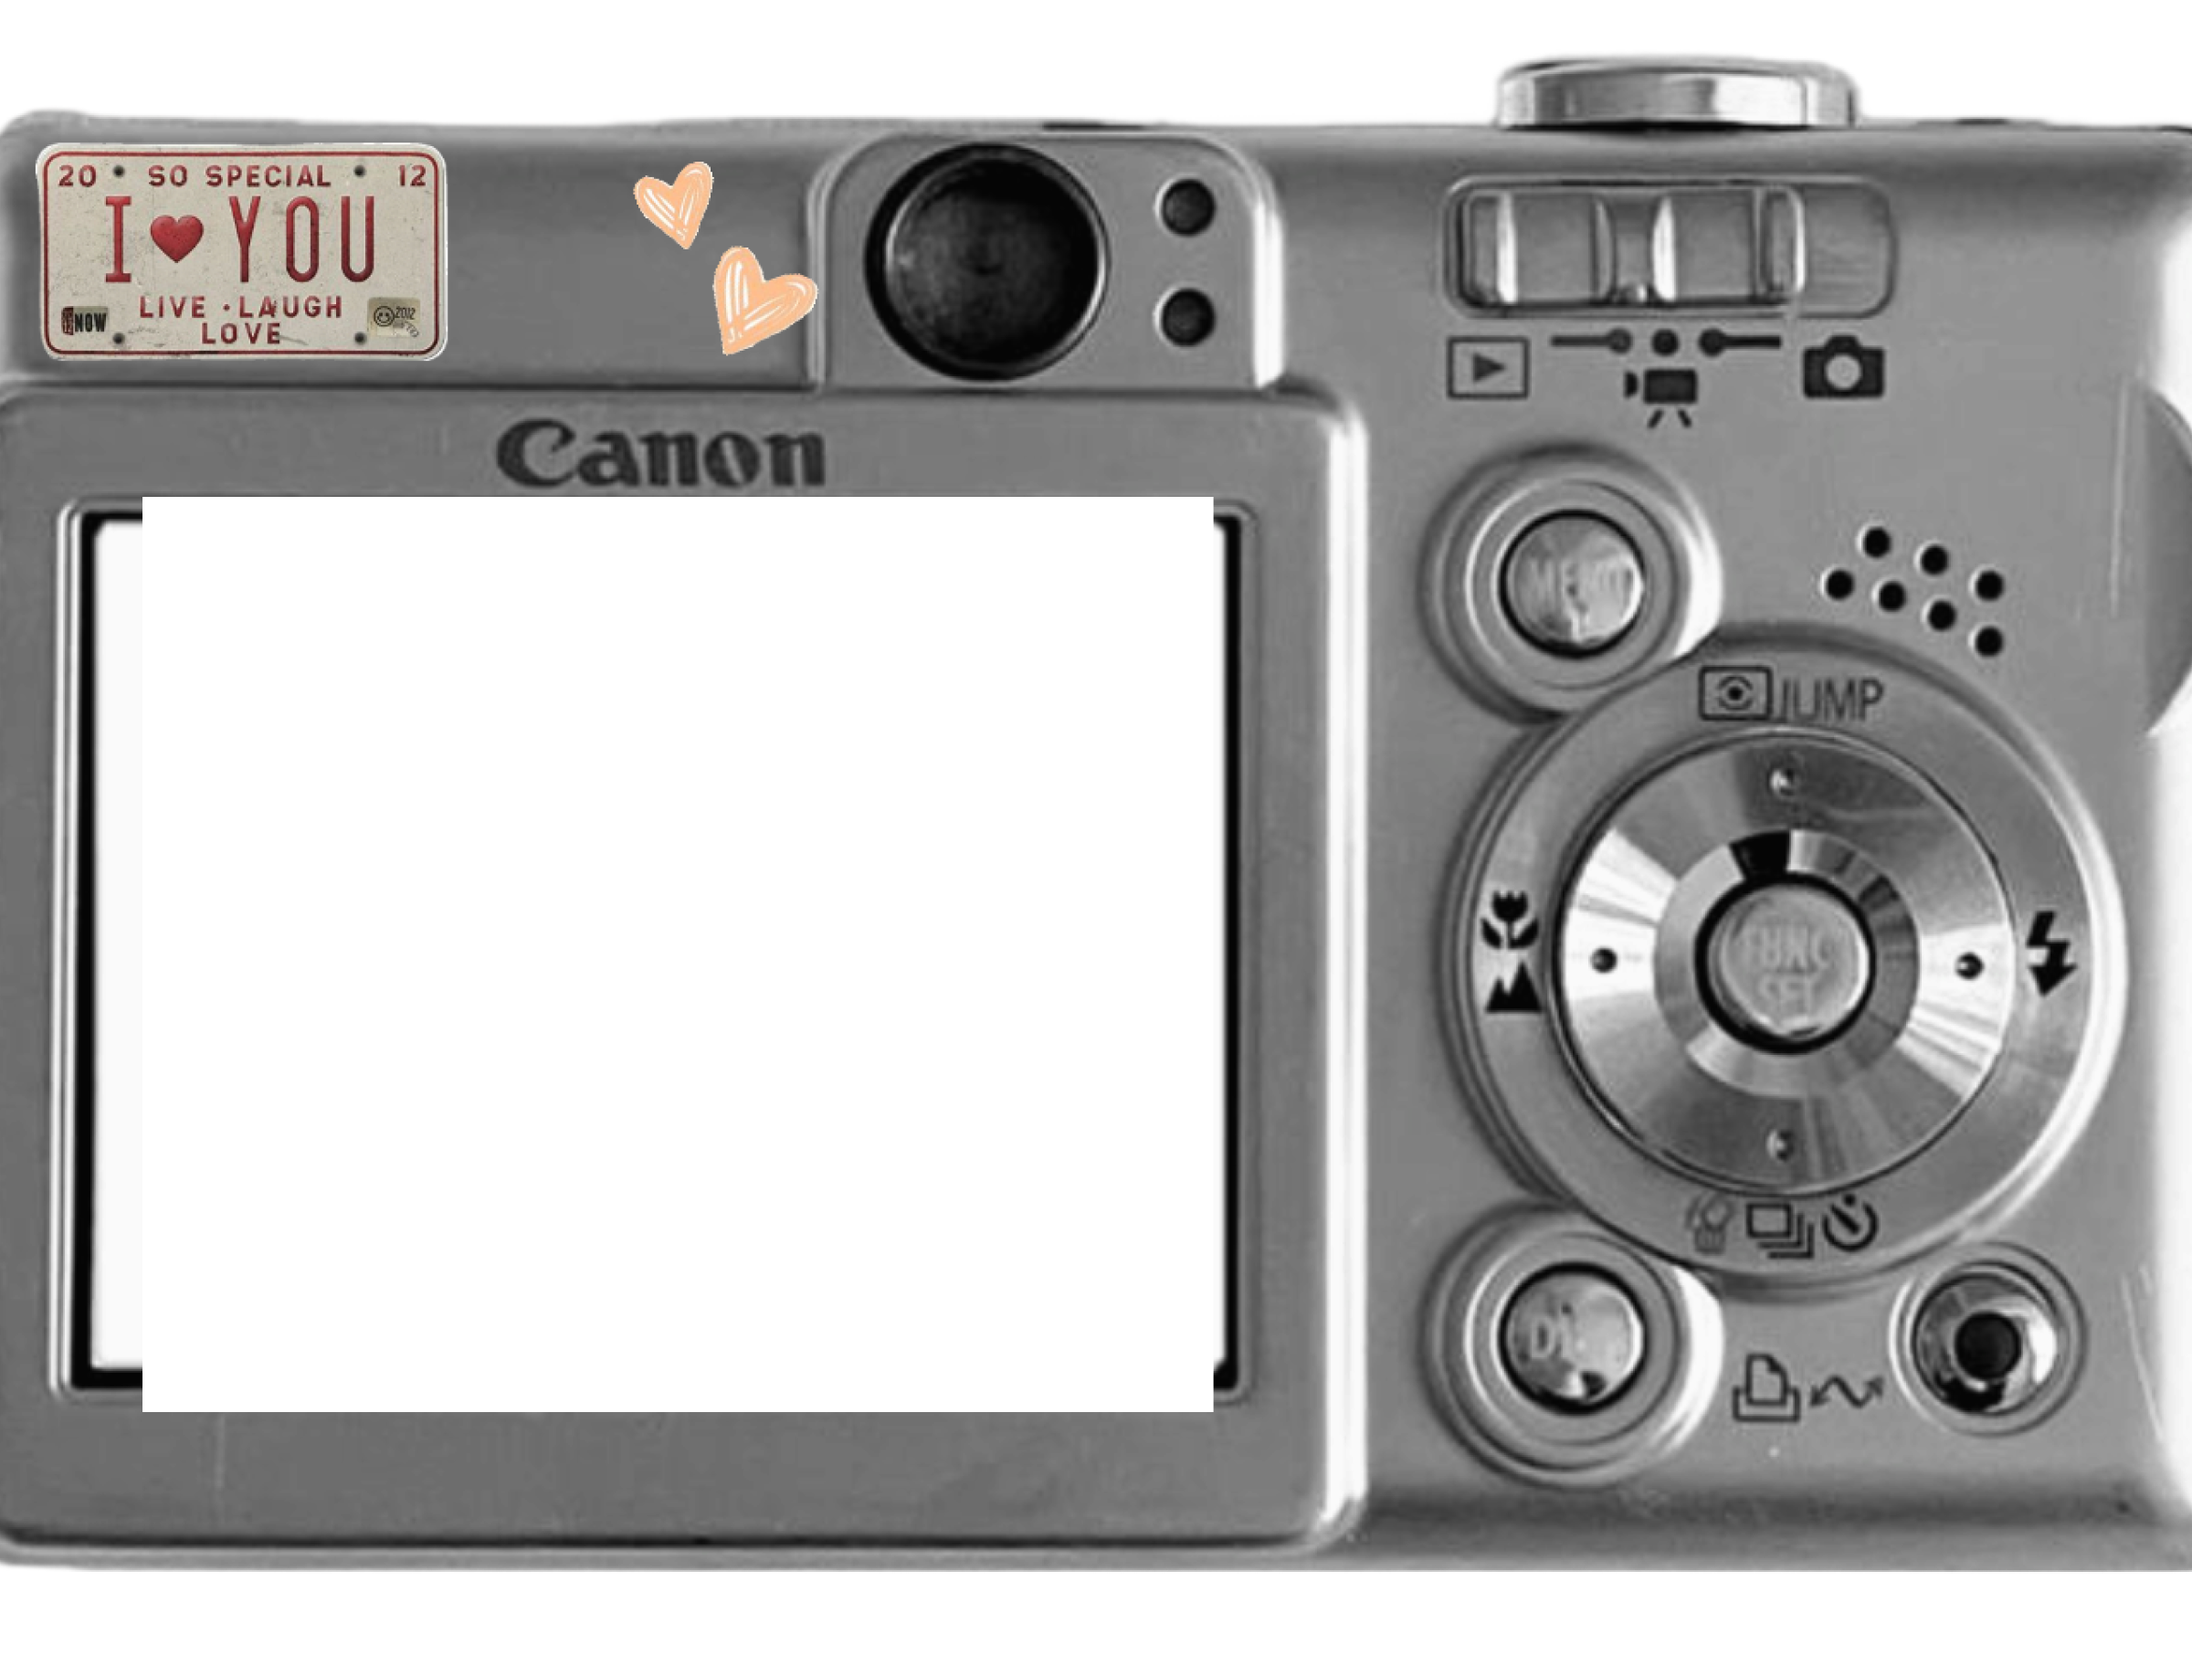
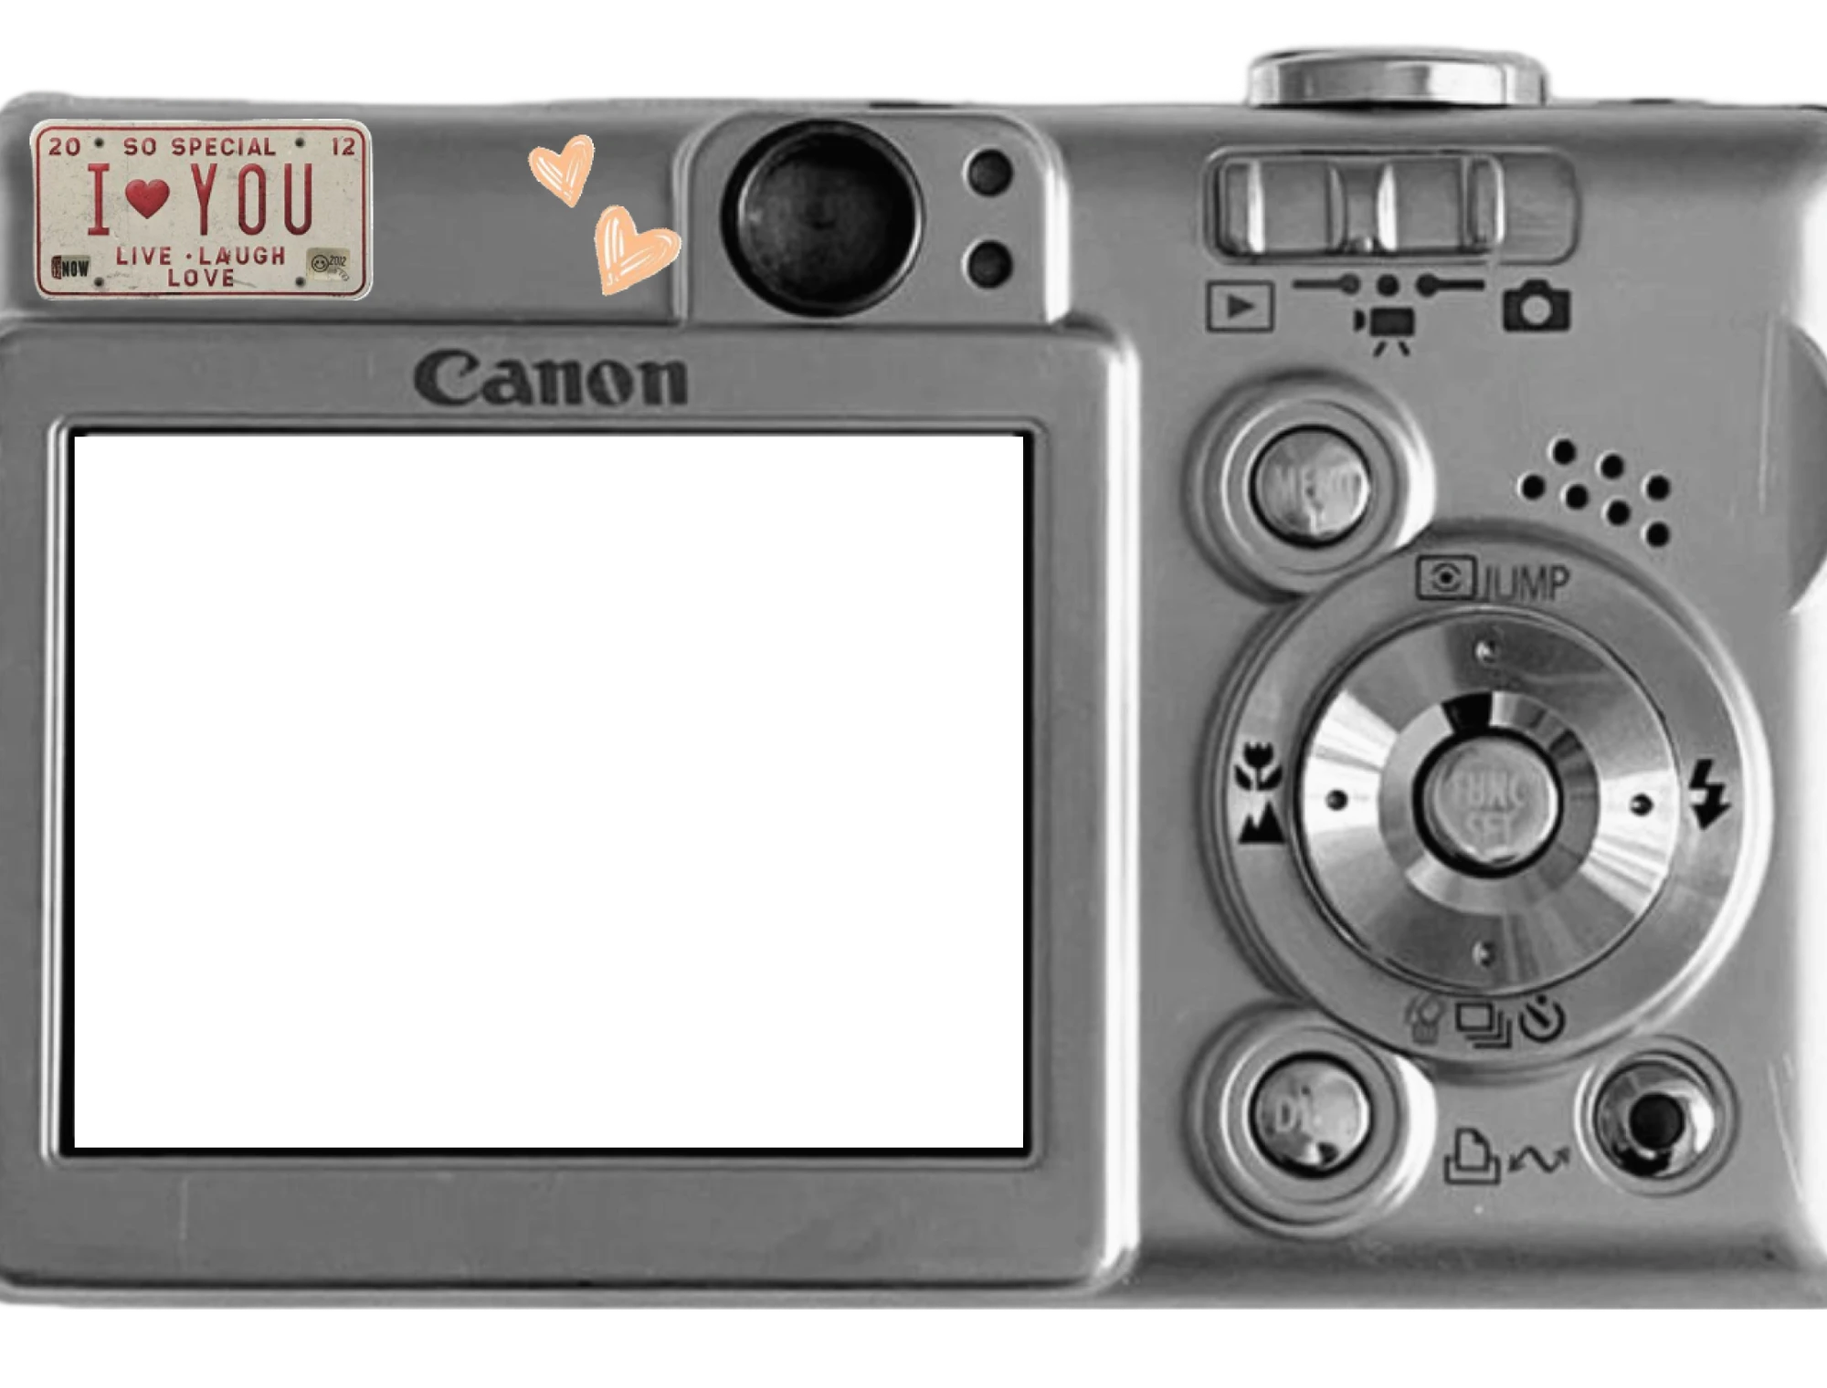
fix: 更新 LOVE 相框素材，並移除與 TICKET 重複的 BERRY
LOVE（12.png）原素材的 LCD 區域去背未切乾淨，左側殘留一條不透明的
白邊，會蓋在照片上方。該白邊屬圖像內容而非座標問題，調整 screen
座標無法修正。改用重新輸出的素材，未切乾淨的面積比由 1.041 回到
1.000。座標隨之更新為 x:4.08 y:31.58 w:51.92 h:50.99，尺寸
2000×1520。

BERRY（8.png）與既有的 TICKET（4.png）像素完全相同 — 平均像素差 0、
差異像素 0%，SHA 不同僅為 PNG 編碼差異。移除 BERRY 並保留既有的
TICKET，相框由 16 款成為 15 款。

檔案編號保留 8 的缺口（1～7、9～16），不重新編號以避免連鎖改名，
且與來源素材的編號一致。

Claude-Session: https://claude.ai/code/session_01KgDssDuj5nZouCM6GyCRQi

Changed region(s): [[0.031, 0.2783, 0.558, 0.8658]]

diff --git a/src/features/editor/types.ts b/src/features/editor/types.ts
@@ -90,11 +90,10 @@ export const Y2K_FRAMES: Frame[] = [
   { id: "frame-5", label: "LUCKY", src: "/frames/5.png", thumb: "/frames/thumbs/5.webp", screen: { x: 10.67, y: 29.51, width: 44.33, height: 49.6 }, size: { width: 2400, height: 1613 } },
   { id: "frame-6", label: "CHERRY", src: "/frames/6.png", thumb: "/frames/thumbs/6.webp", screen: { x: 20.21, y: 37.03, width: 46.12, height: 44.01 }, size: { width: 2400, height: 1904 } },
   { id: "frame-7", label: "SANRIO", src: "/frames/7.png", thumb: "/frames/thumbs/7.webp", screen: { x: 21.0, y: 30.4, width: 38.54, height: 48.26 }, size: { width: 2400, height: 1434 } },
-  { id: "frame-8", label: "BERRY", src: "/frames/8.png", thumb: "/frames/thumbs/8.webp", screen: { x: 7.42, y: 31.69, width: 46.92, height: 49.53 }, size: { width: 2400, height: 1703 } },
   { id: "frame-9", label: "SPARKLE", src: "/frames/9.png", thumb: "/frames/thumbs/9.webp", screen: { x: 14.5, y: 22.13, width: 53.08, height: 71.76 }, size: { width: 2400, height: 1374 } },
   { id: "frame-10", label: "SONY", src: "/frames/10.png", thumb: "/frames/thumbs/10.webp", screen: { x: 8.83, y: 22.79, width: 56.92, height: 65.81 }, size: { width: 2400, height: 1562 } },
   { id: "frame-11", label: "CANON", src: "/frames/11.png", thumb: "/frames/thumbs/11.webp", screen: { x: 6.33, y: 31.66, width: 47.75, height: 54.07 }, size: { width: 2400, height: 1598 } },
-  { id: "frame-12", label: "LOVE", src: "/frames/12.png", thumb: "/frames/thumbs/12.webp", screen: { x: 6.5, y: 29.82, width: 48.83, height: 54.93 }, size: { width: 2400, height: 1824 } },
+  { id: "frame-12", label: "LOVE", src: "/frames/12.png", thumb: "/frames/thumbs/12.webp", screen: { x: 4.08, y: 31.58, width: 51.92, height: 50.99 }, size: { width: 2000, height: 1520 } },
   { id: "frame-13", label: "WAND", src: "/frames/13.png", thumb: "/frames/thumbs/13.webp", screen: { x: 7.67, y: 21.15, width: 56.75, height: 68.54 }, size: { width: 2400, height: 1494 } },
   { id: "frame-14", label: "PLAIN", src: "/frames/14.png", thumb: "/frames/thumbs/14.webp", screen: { x: 6.58, y: 15.49, width: 57.67, height: 72.34 }, size: { width: 2400, height: 1562 } },
   { id: "frame-15", label: "PHONE", src: "/frames/15.png", thumb: "/frames/thumbs/15.webp", screen: { x: 15.0, y: 13.53, width: 69.17, height: 48.5 }, size: { width: 2400, height: 4255 } },
